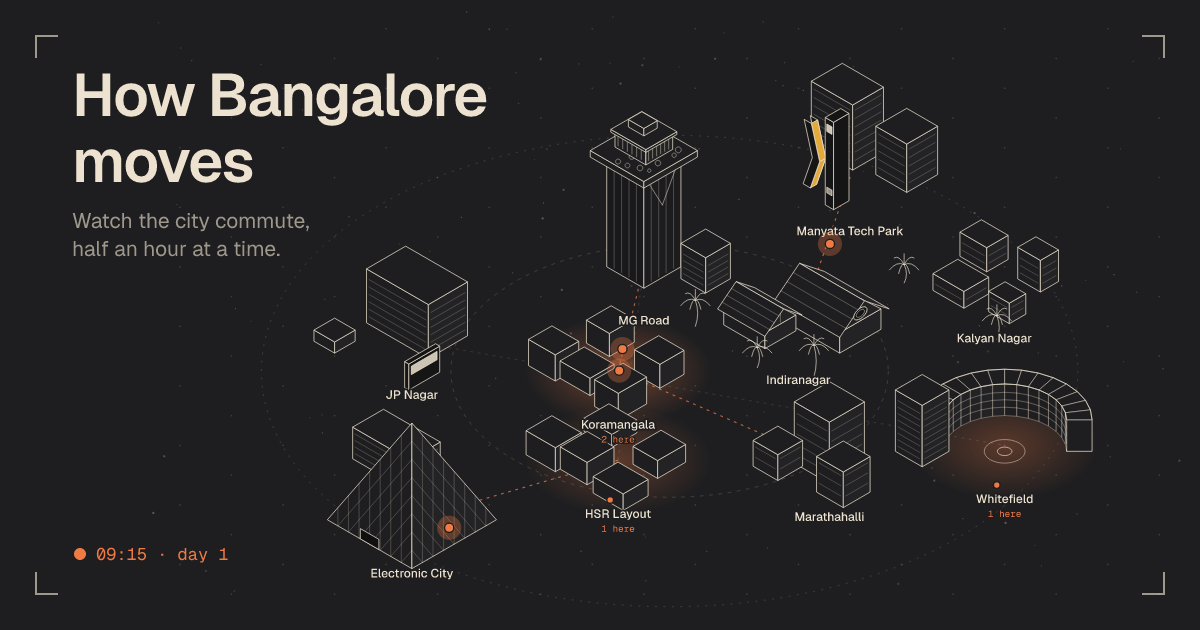
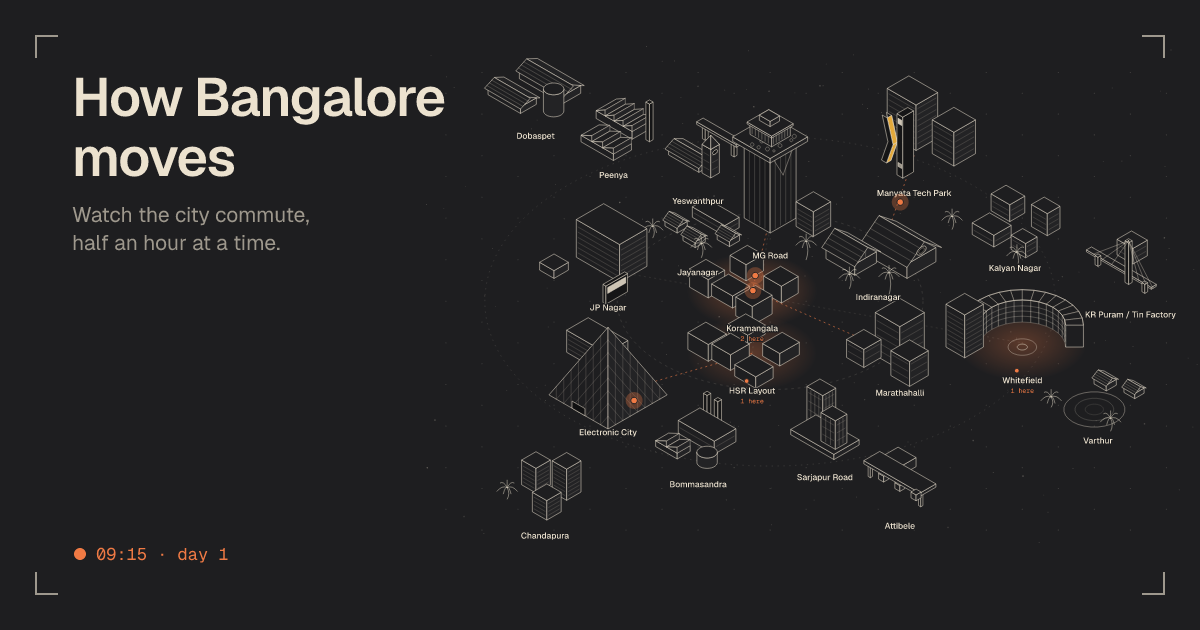
Add ten more localities to the map
Peenya, Yeswanthpur, Dobaspet, Jayanagar, Bommasandra, Chandapura, Attibele,
Sarjapur Road, Varthur and KR Puram / Tin Factory, each with its own line-art
landmark. Outlying areas are pulled in towards the centre; the map frame grows
taller (1200x770) and the phone crop now shows the whole city. Add yourself
lists areas alphabetically within each group.

- Migration adds the areas to areas_known and submit_commute, with a test
  that keeps the database list in step with NODES.
- Copy updated to twenty areas; OG image regenerated.

Claude-Session: https://claude.ai/code/session_01MSqTYjmju4XDSKcjL6UBe6

diff --git a/src/app/landmarks.ts b/src/app/landmarks.ts
@@ -50,6 +50,27 @@ function gable(g: Element, gx: number, gy: number, w: number, d: number, h: numb
   for (let f = .25; f < 1; f += .25) ln(g, [gx - w - ov, lerp(gy + d + ov, gy, f), lerp(h, h + rh, f)], [gx + w + ov, lerp(gy + d + ov, gy, f), lerp(h, h + rh, f)], .3);
 }
 
+/** Upright cylinder (tank, silo): front of the wall, then the lid. */
+function tank(g: Element, cx: number, cy: number, r: number, h: number, base = 0) {
+  const arc = (z: number, from: number, to: number) => {
+    const a: Pt3[] = []; for (let i = 0; i <= 14; i++) { const t = lerp(from, to, i / 14); a.push([cx + Math.cos(t) * r, cy + Math.sin(t) * r, z]); } return a;
+  };
+  poly(g, [...arc(base, -Math.PI / 4, Math.PI * .75), ...arc(base + h, Math.PI * .75, -Math.PI / 4)], F2);
+  isoCircle(g, cx, cy, r, base + h, { "stroke-opacity": .78 }).setAttribute("fill", F1);
+}
+
+/** Factory shed with a sawtooth roof, teeth running along gx. */
+function sawtooth(g: Element, gx: number, gy: number, w: number, d: number, h: number, teeth: number) {
+  box(g, gx, gy, w, d, h, { noTop: true });
+  const step = 2 * w / teeth, rh = 9;
+  for (let i = 0; i < teeth; i++) {
+    const x0 = gx - w + i * step, x1 = x0 + step;
+    poly(g, [[x0, gy - d, h], [x1, gy - d, h + rh], [x1, gy + d, h + rh], [x0, gy + d, h]], F1);
+    poly(g, [[x0, gy + d, h], [x1, gy + d, h], [x1, gy + d, h + rh]], F1);
+    poly(g, [[x1, gy - d, h], [x1, gy + d, h], [x1, gy + d, h + rh], [x1, gy - d, h + rh]], F2, { "stroke-opacity": .5 });
+  }
+}
+
 /** Draw every landmark into a new <g> under `parent`, back to front. */
 export function drawLandmarks(parent: Element) {
   const parts: { k: number; draw: (g: Element) => void }[] = [];
@@ -152,6 +173,81 @@ export function drawLandmarks(parent: Element) {
       ([[-.55, -.35, .26, 26], [.35, -.5, .22, 34], [-.2, .45, .3, 18], [.6, .35, .2, 22]] as const).forEach(([dx, dy, s, h]) =>
         add(gx + gy + dx + dy, g => box(g, gx + dx, gy + dy, s, s * .8, h, { bands: 8 })));
       add(gx + gy + 1.4, g => { palm(g, gx + .95, gy + .9, 26); palm(g, gx - .9, gy + .85, 20); });
+    } else if (id === "peenya") {
+      // industrial estate: sawtooth-roofed sheds and a chimney
+      add(gx + gy - .6, g => sawtooth(g, gx - .2, gy - .5, .5, .28, 12, 4));
+      add(gx + gy - .2, g => box(g, gx + .55, gy - .45, .05, .05, 58, { lf: DARK, rf: DARK, tf: DARK }));
+      add(gx + gy + .3, g => sawtooth(g, gx + .1, gy + .3, .45, .25, 10, 3));
+    } else if (id === "yeswanthpur") {
+      // railway station: a long platform roof, a clock tower, a metro viaduct behind
+      add(gx + gy - 1.1, g => {
+        [-.5, .3].forEach(x => box(g, gx + x, gy - .7, .04, .04, 20, { lf: DARK, rf: DARK }));
+        box(g, gx - .1, gy - .7, .55, .09, 4, { base: 20 });
+      });
+      add(gx + gy - .1, g => gable(g, gx - .2, gy, .42, .2, 9, 8, .05));
+      add(gx + gy + .5, g => {
+        const x = gx + .4, y = gy + .05, w = .12;
+        box(g, x, y, w, w, 44, { bands: 11 });
+        poly(g, [[x - w, y - w, 44], [x + w, y - w, 44], [x, y, 58]], F2); poly(g, [[x - w, y + w, 44], [x + w, y + w, 44], [x, y, 58]], F1);
+        poly(g, [[x + w, y + w, 44], [x + w, y - w, 44], [x, y, 58]], F2);
+        const c = (r: number) => { const a: Pt3[] = []; for (let i = 0; i < 20; i++) { const t = i / 20 * Math.PI * 2; a.push([x + w + .001, y + Math.cos(t) * r, 36 + Math.sin(t) * r * 44]); } return a; };
+        poly(g, c(.07), DARK, { "stroke-opacity": .9 });
+      });
+    } else if (id === "dobaspet") {
+      // far-out industrial area: long warehouses and a silo
+      add(gx + gy - .7, g => gable(g, gx - .1, gy - .5, .6, .25, 12, 9, .05));
+      add(gx + gy - .1, g => tank(g, gx + .55, gy + .05, .2, 34));
+      add(gx + gy + .2, g => gable(g, gx - .3, gy + .35, .45, .22, 10, 8, .05));
+    } else if (id === "jayanagar") {
+      // leafy blocks: low houses, a shopping complex and trees
+      add(gx + gy - .7, g => box(g, gx - .05, gy - .55, .45, .2, 16, { bands: 8 }));
+      ([[-.5, .1], [.1, .2], [.55, -.3]] as const).forEach(([dx, dy]) =>
+        add(gx + gy + dx + dy, g => gable(g, gx + dx, gy + dy, .17, .14, 9, 8, .03)));
+      add(gx + gy + 1.1, g => { palm(g, gx + .6, gy + .5, 22); palm(g, gx - .55, gy + .7, 18); });
+    } else if (id === "bommasandra") {
+      // factory with twin chimneys and a storage tank
+      add(gx + gy - .6, g => box(g, gx - .1, gy - .35, .5, .3, 20, { bands: 10 }));
+      [-.35, -.05].forEach(dx => add(gx + gy - .9 + dx, g => box(g, gx + dx, gy - .6, .05, .05, 52, { lf: DARK, rf: DARK, tf: DARK })));
+      add(gx + gy + .6, g => tank(g, gx + .5, gy + .25, .2, 16));
+      add(gx + gy + .4, g => sawtooth(g, gx - .3, gy + .4, .3, .18, 9, 2));
+    } else if (id === "chandapura") {
+      // newer apartment towers on the city's edge
+      ([[-.45, -.2, 38], [.15, -.45, 48], [.35, .3, 30]] as const).forEach(([dx, dy, h]) =>
+        add(gx + gy + dx + dy, g => box(g, gx + dx, gy + dy, .2, .2, h, { bands: 6 })));
+      add(gx + gy + 1, g => palm(g, gx - .5, gy + .55, 18));
+    } else if (id === "attibele") {
+      // the toll plaza on the state border: a long canopy over booths
+      add(gx + gy - .5, g => box(g, gx - .55, gy - .55, .25, .2, 14));
+      [-.45, 0, .45].forEach(dx => add(gx + gy + dx - .05, g => box(g, gx + dx, gy, .07, .07, 9)));
+      add(gx + gy + .3, g => {
+        [-.7, .7].forEach(dx => box(g, gx + dx, gy + .12, .03, .03, 20, { lf: DARK, rf: DARK }));
+        box(g, gx, gy, .78, .22, 5, { base: 20, bands: 0 });
+      });
+    } else if (id === "sarjapur") {
+      // tech park: two glass towers over a podium
+      add(gx + gy - .3, g => box(g, gx, gy, .6, .35, 8));
+      add(gx + gy - .6, g => box(g, gx - .25, gy - .15, .22, .18, 60, { base: 8, fins: [.25, .5, .75], finOp: .3, bands: 13 }));
+      add(gx + gy + .1, g => box(g, gx + .3, gy + .05, .2, .16, 44, { base: 8, fins: [.33, .66], finOp: .3, bands: 12 }));
+    } else if (id === "varthur") {
+      // the lake, with a few houses and trees on its shore
+      add(gx + gy - 2, g => {
+        isoCircle(g, gx + .1, gy + .2, .6, 0, { "stroke-opacity": .55 });
+        isoCircle(g, gx + .1, gy + .2, .38, 0, { "stroke-opacity": .25 });
+        isoCircle(g, gx + .1, gy + .2, .18, 0, { "stroke-opacity": .15 });
+      });
+      add(gx + gy - .9, g => gable(g, gx - .35, gy - .55, .17, .14, 9, 7, .03));
+      add(gx + gy - .6, g => gable(g, gx + .25, gy - .75, .15, .13, 8, 7, .03));
+      add(gx + gy + 1.2, g => { palm(g, gx + .85, gy + .5, 20); palm(g, gx - .55, gy + .75, 16); });
+    } else if (id === "krpuram") {
+      // the cable-stayed bridge over the railway at the interchange
+      add(gx + gy - .4, g => box(g, gx - .5, gy - .55, .22, .2, 24, { bands: 8 }));
+      add(gx + gy + .2, g => {
+        const y = gy + .15, top: Pt3 = [gx + .1, y, 64];
+        box(g, gx - .1, y, .9, .07, 3, { base: 14 });
+        [-.75, .55].forEach(dx => box(g, gx + dx, y, .04, .04, 14, { lf: DARK, rf: DARK }));
+        box(g, gx + .1, y, .05, .05, 64, { lf: DARK, rf: DARK, tf: DARK });
+        [-.9, -.65, -.4, .35, .55, .75].forEach(dx => ln(g, top, [gx + .1 + dx, y + .07, 17], .5, INK, 1));
+      });
     } else if (id === "marathahalli") {
       ([[-.45, .55, .24, .42], [0, 0, .34, 1], [.62, .35, .26, .58]] as const).forEach(([dx, dy, s, hf]) =>
         add(gx + gy + dx + dy, g => box(g, gx + dx, gy + dy, s, s, 66 * hf, { bands: 11 })));

diff --git a/src/app/map.ts b/src/app/map.ts
@@ -10,27 +10,29 @@ import type { CrowdFrame } from "./crowd";
 const MAX_DOTS = 90;
 const fmt = (n: number) => Math.round(n).toLocaleString("en-IN");
 
-export const VIEW_FULL = { x: 0, y: 0, w: 1200, h: 640 };
+export const VIEW_FULL = { x: 0, y: 10, w: 1200, h: 770 };
 /** Phones: crop to the landmarks and scale up text/dots so they stay readable. */
-export const VIEW_COMPACT = { x: 150, y: 20, w: 900, h: 640 };
-const COMPACT_TEXT = 2.1, COMPACT_DOT = 1.6;
+export const VIEW_COMPACT = { x: 90, y: 30, w: 1090, h: 780 };
+const COMPACT_TEXT = 2.5, COMPACT_DOT = 1.8;
 /** Nudges for compact labels that would otherwise collide once enlarged. */
 const COMPACT_NUDGE: Partial<Record<AreaId, [number, number]>> = {
   whitefield: [30, -8], marathahalli: [-16, 30], indiranagar: [26, -10], koramangala: [-24, 4], jpnagar: [8, 0],
+  jayanagar: [-34, -6], dobaspet: [24, 0], chandapura: [20, 0], krpuram: [-10, 0], varthur: [-10, 0],
 };
 
 export interface SceneOpts { compact?: boolean; people?: readonly Person[] }
 
 /** Dust, dot grid, dashed rings. Shared with the OG image script. */
 export function drawBackdrop(svg: Element) {
-  const r = rng(7);
-  dust(el("g", { opacity: .5 }, svg), r, 120, 1200, 640, () => r() < .85 ? .7 : 1.2, .25, .4);
+  const r = rng(7), v = VIEW_FULL;
+  const d = el("g", { opacity: .5, transform: `translate(${v.x} ${v.y})` }, svg);
+  dust(d, r, 140, v.w, v.h, () => r() < .85 ? .7 : 1.2, .25, .4);
   const grid = el("g", {}, svg);
-  for (let gx = -3; gx <= 15; gx++) for (let gy = -5; gy <= 15; gy++) {
-    const [x, y] = iso(gx, gy); if (x < 10 || x > 1190 || y < 10 || y > 630) continue;
+  for (let gx = -8; gx <= 20; gx++) for (let gy = -5; gy <= 20; gy++) {
+    const [x, y] = iso(gx, gy); if (x < v.x + 10 || x > v.x + v.w - 10 || y < v.y + 10 || y > v.y + v.h - 10) continue;
     el("circle", { cx: x, cy: y, r: .9, fill: INK, opacity: .16 }, grid);
   }
-  const c = iso(5.5, 5);
+  const c = iso(5.5, 5.5);
   [3, 5.6].forEach((rr, i) => el("ellipse", { cx: c[0], cy: c[1], rx: rr * K * 1.2247, ry: rr * K * .7071, fill: "none", stroke: INK, "stroke-opacity": .16, "stroke-dasharray": i ? "2 7" : "4 6" }, svg));
 }
 

diff --git a/scripts/build-assets.ts b/scripts/build-assets.ts
@@ -39,7 +39,7 @@ root.innerHTML = `<rect width="${W}" height="${H}" fill="${CARD}"/>`;
 
 // the map, shifted right so the title has room top-left
 const mapG = document.createElementNS(NS, "g");
-mapG.setAttribute("transform", "translate(150 12) scale(.93)");
+mapG.setAttribute("transform", "translate(425 40) scale(.65)");
 root.appendChild(mapG);
 const mapSvg = document.createElementNS(NS, "svg");
 mapSvg.setAttribute("width", "1200"); mapSvg.setAttribute("height", "640");
@@ -61,10 +61,10 @@ const bracket = (x: number, y: number, dx: number, dy: number) =>
 // spliced in as text: linkedom parses self-closing SVG tags as HTML and would nest them
 const overlay = [
   bracket(36, 36, 1, 1), bracket(W - 36, 36, -1, 1), bracket(36, H - 36, 1, -1), bracket(W - 36, H - 36, -1, -1),
-  `<text x="72" y="116" font-family="Geist" font-weight="600" font-size="60" letter-spacing="-1.5" fill="${INK}">How Bangalore</text>`,
-  `<text x="72" y="182" font-family="Geist" font-weight="600" font-size="60" letter-spacing="-1.5" fill="${INK}">moves</text>`,
-  `<text x="72" y="228" font-family="Geist" font-size="21" fill="${INK}" fill-opacity=".62">Watch the city commute,</text>`,
-  `<text x="72" y="256" font-family="Geist" font-size="21" fill="${INK}" fill-opacity=".62">half an hour at a time.</text>`,
+  `<text x="72" y="116" font-family="Geist" font-weight="600" font-size="54" letter-spacing="-1.4" fill="${INK}">How Bangalore</text>`,
+  `<text x="72" y="176" font-family="Geist" font-weight="600" font-size="54" letter-spacing="-1.4" fill="${INK}">moves</text>`,
+  `<text x="72" y="222" font-family="Geist" font-size="21" fill="${INK}" fill-opacity=".62">Watch the city commute,</text>`,
+  `<text x="72" y="250" font-family="Geist" font-size="21" fill="${INK}" fill-opacity=".62">half an hour at a time.</text>`,
   `<circle cx="80" cy="${H - 76}" r="6" fill="${OR}"/>`,
   `<text x="96" y="${H - 70}" font-family="Geist Mono" font-size="17" fill="${OR}">09:15 · day 1</text>`,
 ].join("");

diff --git a/src/app/data.ts b/src/app/data.ts
@@ -24,6 +24,17 @@ const RAW_NODES = {
   electronic:   { label: "Electronic City",   short: "E-City",      g: [5.5, 10],  kind: "office", h: 88 },
   // added last so every earlier landmark keeps its exact drawing
   kalyannagar:  { label: "Kalyan Nagar",      short: "Kalyan Ngr",  g: [7.2, 0.4], kind: "home" },
+  // outlying areas are pulled in towards the centre so the map stays readable
+  peenya:       { label: "Peenya",            short: "Peenya",      g: [-0.61, 3.74],  kind: "office" },
+  yeswanthpur:  { label: "Yeswanthpur",       short: "Yeswanthpur", g: [1.19, 3.19],    kind: "office" },
+  dobaspet:     { label: "Dobaspet",          short: "Dobaspet",    g: [-2.63, 3.88], kind: "office" },
+  jayanagar:    { label: "Jayanagar",         short: "Jayanagar",   g: [2.9, 4.91],  kind: "home" },
+  bommasandra:  { label: "Bommasandra",       short: "Bommasandra", g: [8, 10], kind: "office" },
+  chandapura:   { label: "Chandapura",        short: "Chandapura",  g: [7.11, 13.36], kind: "home" },
+  attibele:     { label: "Attibele",          short: "Attibele",    g: [11.8, 8.2],  kind: "home" },
+  sarjapur:     { label: "Sarjapur Road",     short: "Sarjapur",    g: [9.59, 8.07],  kind: "office" },
+  varthur:      { label: "Varthur",           short: "Varthur",     g: [12.5, 3.4], kind: "home" },
+  krpuram:      { label: "KR Puram / Tin Factory", short: "KR Puram",    g: [9.92, -0.08],  kind: "home" },
 } satisfies Record<string, Area>;
 
 export type AreaId = keyof typeof RAW_NODES;

diff --git a/tests/areas.test.ts b/tests/areas.test.ts
@@ -1,0 +1,23 @@
+import { readdirSync, readFileSync } from "node:fs";
+import { join } from "node:path";
+import { describe, expect, it } from "vitest";
+import { AREA_IDS } from "../src/app/data";
+
+// the database only accepts areas it knows about, so the newest migration that defines
+// submit_commute must list exactly the areas on the map
+describe("database area list", () => {
+  const dir = join(import.meta.dirname, "../supabase/migrations");
+  const latest = readdirSync(dir).sort().reverse()
+    .map(f => readFileSync(join(dir, f), "utf8"))
+    .find(s => s.includes("function public.submit_commute("))!;
+
+  it("matches NODES in submit_commute", () => {
+    const list = latest.match(/areas constant text\[\] := array\[([^\]]*)\]/)![1]!;
+    expect([...list.matchAll(/'(\w+)'/g)].map(m => m[1]).sort()).toEqual([...AREA_IDS].sort());
+  });
+
+  it("matches NODES in the areas_known check", () => {
+    const check = latest.match(/home_area in \(([^)]*)\)/)![1]!;
+    expect([...check.matchAll(/'(\w+)'/g)].map(m => m[1]).sort()).toEqual([...AREA_IDS].sort());
+  });
+});

diff --git a/src/app/addDialog.ts b/src/app/addDialog.ts
@@ -24,7 +24,8 @@ function fillSelects(home: HTMLSelectElement, office: HTMLSelectElement) {
     const groups = i === 0 ? [["home", "Neighbourhoods"], ["office", "Work hubs"]] : [["office", "Work hubs"], ["home", "Neighbourhoods"]];
     for (const [k, l] of groups) {
       const og = document.createElement("optgroup"); og.label = l!;
-      for (const id of Object.keys(NODES) as AreaId[]) if (NODES[id].kind === k) og.appendChild(new Option(NODES[id].label, id));
+      const ids = (Object.keys(NODES) as AreaId[]).filter(id => NODES[id].kind === k).sort((a, b) => NODES[a].label.localeCompare(NODES[b].label));
+      for (const id of ids) og.appendChild(new Option(NODES[id].label, id));
       s.appendChild(og);
     }
   });

diff --git a/README.md b/README.md
@@ -5,7 +5,7 @@ long the ride takes, and the city steps forward every half hour on a 24-hour loo
 
 Live at **https://www.howyourcitymoves.fyi**
 
-- **The city, right now**: hand-drawn isometric landmarks for ten areas. City-wide traffic flows along the
+- **The city, right now**: hand-drawn isometric landmarks for twenty areas. City-wide traffic flows along the
   routes, and your own commuters are drawn on top in cream.
 - **Rush hours**: people on the road in each hour.
 - **Where everyone is**: at home, on the road, at work, updating with the clock.
